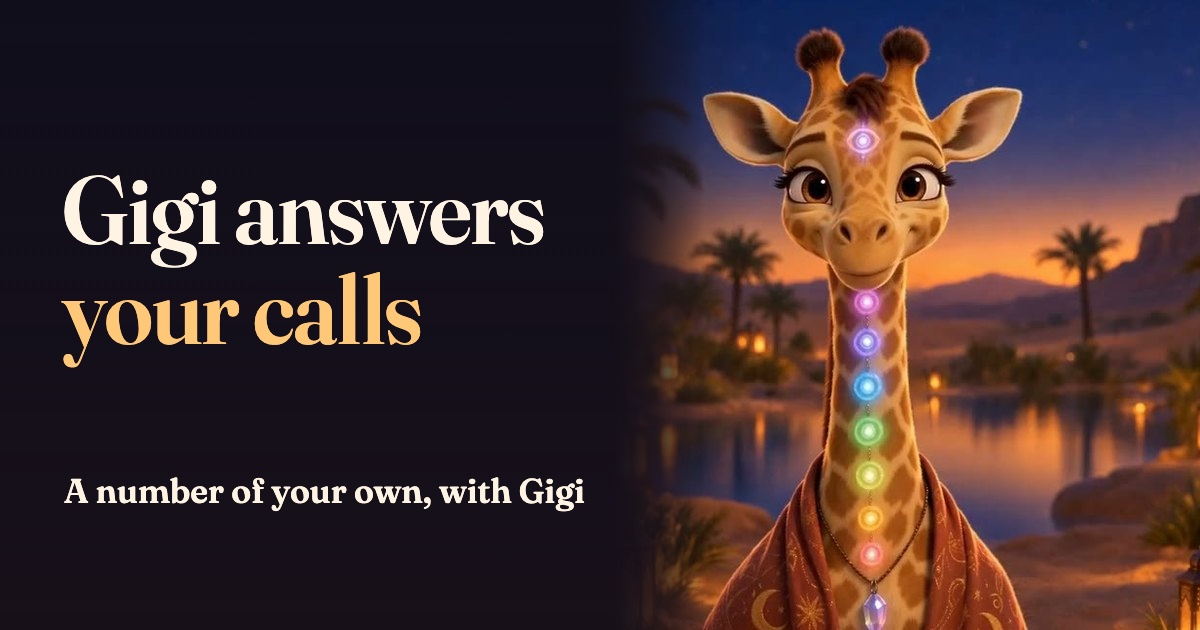
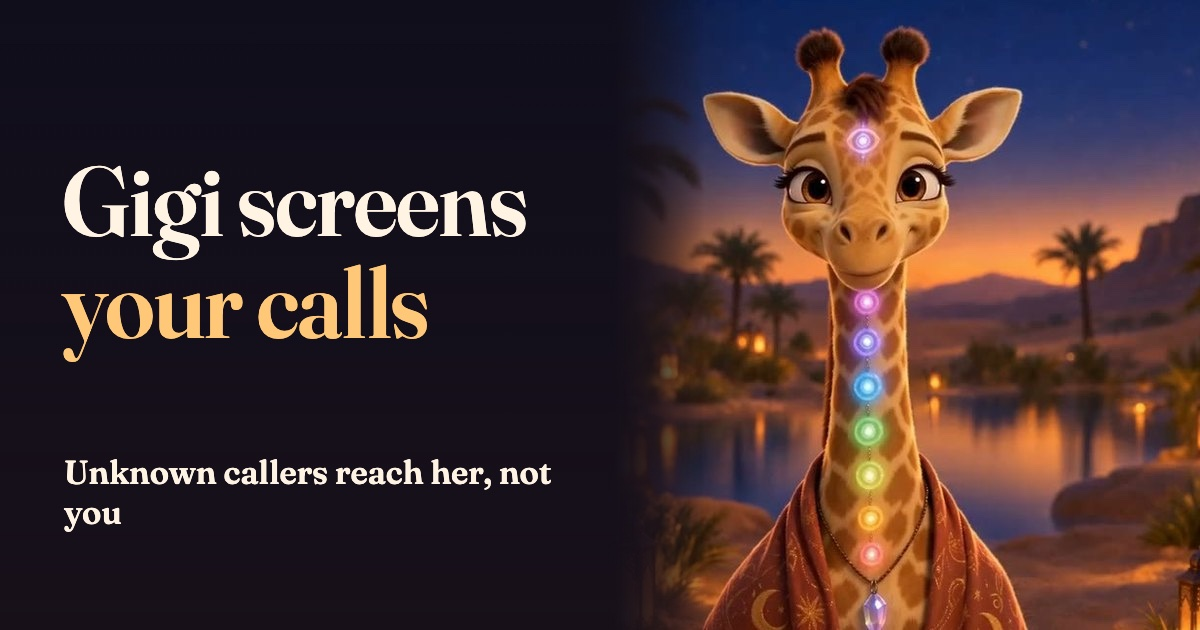
line: Gigi screens the calls to your own number (no second number to hand out)
Max, 2026-11-16: 'i dont need them to have a 2nd number. i need them to have an agent that automatically screens when
someone unknown calls and protects them'. New words and card; same layout, still no price.

Changed region(s): [[0.0308, 0.7238, 0.4933, 0.8444], [0.0617, 0.2413, 0.4625, 0.4222], [0.0308, 0.4222, 0.37, 0.573]]

diff --git a/line/index.html b/line/index.html
@@ -4,25 +4,26 @@
 <meta charset="utf-8">
 <meta name="viewport" content="width=device-width, initial-scale=1, viewport-fit=cover">
 <meta name="theme-color" content="#0c0a18">
-<title>Your own Gigi number · Grateful Giraffes</title>
-<meta name="description" content="A number of your own to give out instead of your real one. Gigi picks up, asks who is calling and why, and texts you.">
+<title>Gigi screens your calls · Grateful Giraffes</title>
+<meta name="description" content="Callers who are not in your contacts stop ringing your phone. Gigi answers, asks who they are and why, and texts you.">
 
 <meta property="og:type" content="website">
 <meta property="og:site_name" content="Grateful Giraffes">
-<meta property="og:title" content="Hand out this number, not yours">
-<meta property="og:description" content="She asks every caller who they are and why, then texts you. The real ones ring through.">
+<meta property="og:title" content="No more guessing who is calling">
+<meta property="og:description" content="She asks who they are and why, then texts you. The real ones still get through.">
 <meta property="og:url" content="https://grateful.gg/line/">
 <meta property="og:image" content="https://grateful.gg/line/cover.jpg">
 <meta property="og:image:type" content="image/jpeg">
 <meta property="og:image:width" content="1200">
 <meta property="og:image:height" content="630">
-<meta property="og:image:alt" content="Gigi the giraffe at her oasis at dusk, beside the words Gigi answers your calls">
+<meta property="og:image:alt" content="Gigi the giraffe at her oasis at dusk, beside the words Gigi screens your calls">
 <meta name="twitter:card" content="summary_large_image">
 <meta name="robots" content="noindex">
 
 <!-- The Gigi line door (Max, 2026-11-16: "let's sell it to the community", bought by texting Gigi). Opens Messages to Gigi's
      (516) 419-7249 line with LINE already typed; Gigi explains it and sells it there (gigi-whatsapp functions/
-     gigi_line_sales.private.js). No price on this page or its card: she gives it by text. iOS takes "&body=", everyone else
+     gigi_line_sales.private.js). She screens the calls to their OWN number (Max, 11-16: "i dont need them to have a 2nd
+     number"): their iPhone forwards unknown callers to her. No price on this page or its card: she gives it by text. iOS takes "&body=", everyone else
      "?body=". Add ?stay to look at the page without Messages opening. Layout and art are the AI door's (aicall/). -->
 <script>
   var SMS = /iPad|iPhone|iPod|Macintosh/.test(navigator.userAgent) ? "sms:+15164197249&body=LINE" : "sms:+15164197249?body=LINE";
@@ -106,8 +107,8 @@
     </video>
     <main class="copy">
       <p class="eye">For Grateful Giraffes</p>
-      <h1>Gigi answers your calls</h1>
-      <p class="lede">Get a number of your own to give out instead of your real one. Gigi picks up, asks who is calling and why, and texts you. For a real call she asks if you want it, and your phone rings.</p>
+      <h1>Gigi screens your calls</h1>
+      <p class="lede">Callers who are not in your contacts stop ringing your phone. Gigi answers, asks who they are and why, and texts you. For a real call she asks if you want it, and your phone rings. Same number, nothing to install.</p>
       <a class="btn" data-sms href="sms:+15164197249">Text LINE to Gigi</a>
       <p class="note">Messages opens with LINE typed in. Just hit send.<br>Or text LINE to <a class="num" data-sms href="sms:+15164197249">(516) 419-7249</a></p>
     </main>
